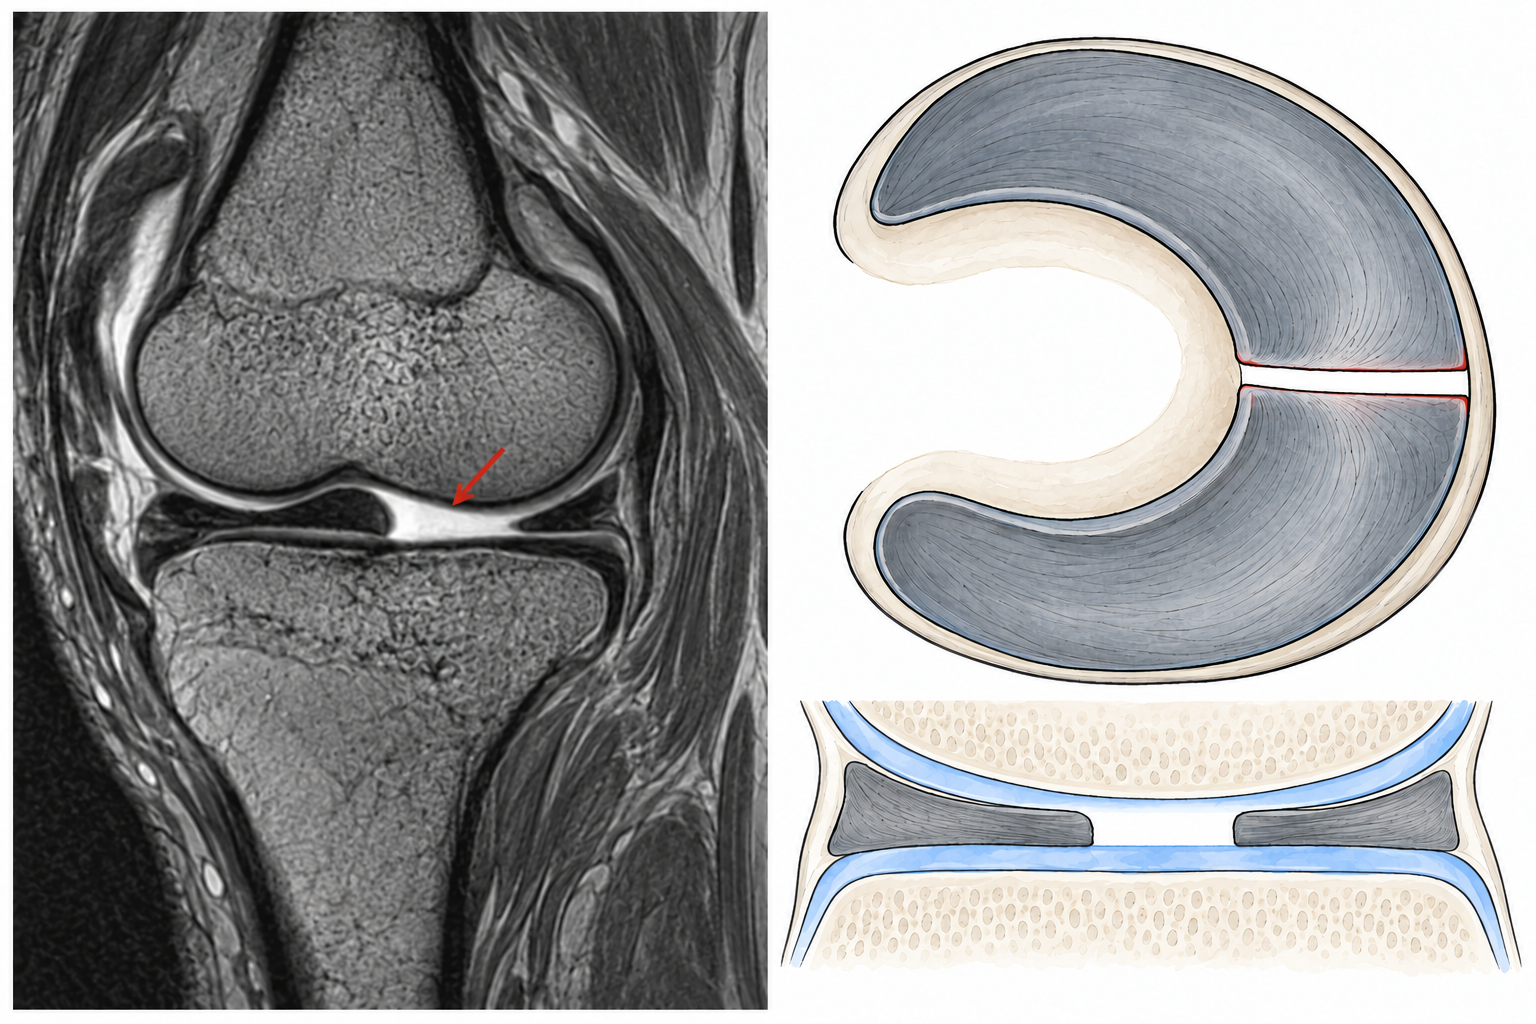
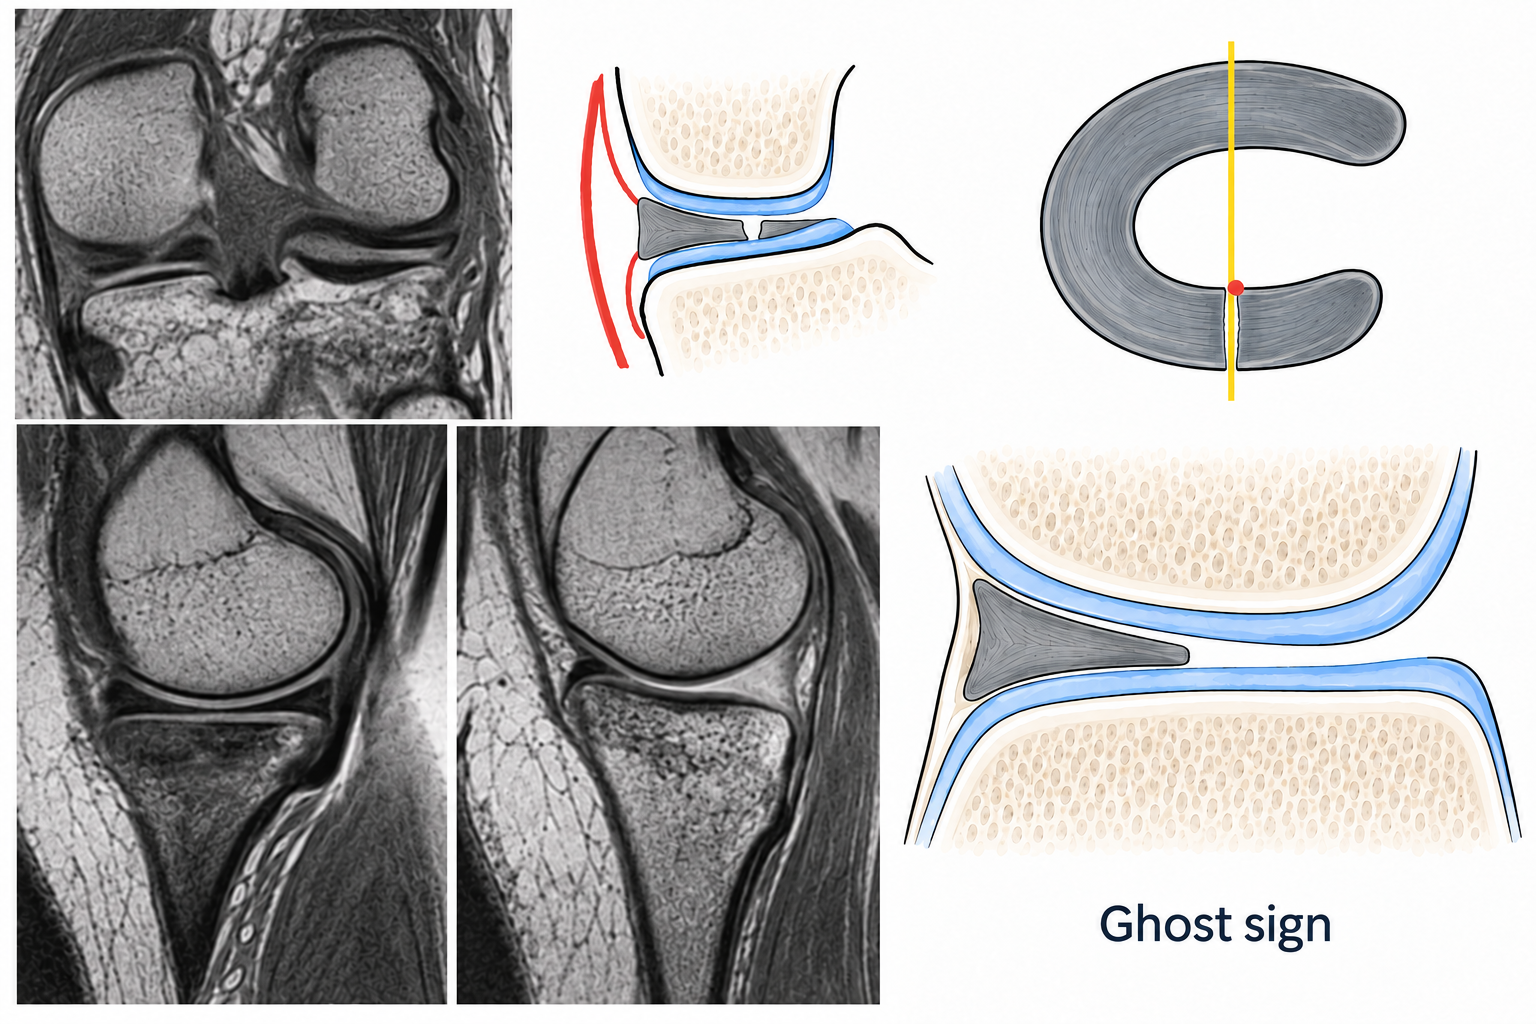
Rework parrot-beak teaching content and meniscus illustrations

diff --git a/app/msk/knie/meniskus/TearTypeExplorer.jsx b/app/msk/knie/meniskus/TearTypeExplorer.jsx
@@ -29,12 +29,12 @@ const items = [
     L(<><p>Ringspannung und Lastverteilung sind erheblich beeinträchtigt.</p><p>Eine Meniskusextrusion kann hinzukommen.</p></>, <><p>Hoop-stress transmission and load distribution are substantially impaired.</p><p>Meniscal extrusion may coexist.</p></>, <><p>انتقال تنش حلقوی و توزیع بار بهشدت مختل میشوند.</p><p>اکستروژن منیسک ممکن است همراه باشد.</p></>),
     null,
   ], [labels[0], L('Ghost sign', 'Ghost sign', 'علامت شبح (Ghost sign)'), labels[2]]),
-  makeItem('flap', L('Parrot-beak-tear (Lappenriss)', 'Parrot-beak tear (flap tear)', 'پارگی لَپی'), L('Teilweise angeheftetes Fragment', 'Partly attached fragment', 'قطعه با اتصال باقیمانده'), [
-    L('Schräger Radiärriss mit spitzem, teilweise angeheftetem Lappen am freien Rand.', 'An oblique radial tear with a pointed, partly attached flap at the free edge.', 'پارگی شعاعی مایل با لَپ نوکتیز و اتصال باقیمانده در لبهٔ آزاد.'),
+  makeItem('flap', L('Parrot-beak-tear (Lappenriss)', 'Parrot-beak tear (flap tear)', 'پارگی لَپی'), L('Gebogener Rissverlauf', 'Curved tear course', 'مسیر خمیدهٔ پارگی'), [
+    L(<><p>Mischform aus einem radiären und einem longitudinalen Rissverlauf.</p><p>Der Riss beginnt meist an der freien Innenkante des Meniskus und geht in einen schrägen oder bogenförmigen longitudinalen Verlauf über.</p><p>Der gebogene Einriss bildet einen spitzen Lappen – ähnlich einem Papageienschnabel.</p></>, <><p>A combination of radial and longitudinal tear components.</p><p>The tear usually starts at the free inner edge of the meniscus and curves into an oblique or arcuate longitudinal course.</p><p>The curved tear creates a pointed flap resembling a parrot's beak.</p></>, <><p>ترکیبی از مسیر پارگی شعاعی و طولی.</p><p>پارگی معمولاً از لبهٔ آزاد داخلی منیسک شروع میشود و سپس به مسیری مایل یا قوسی در امتداد طولی تغییر جهت میدهد.</p><p>این مسیر خمیده یک لَپ نوکتیز، شبیه منقار طوطی، ایجاد میکند.</p></>),
+    L('Auf aufeinanderfolgenden sagittalen Schichten verändert sich der Abstand der Risslinie zur Kapsel aufgrund des gebogenen Verlaufs.', 'On consecutive sagittal slices, the distance between the tear line and the capsule changes because of the curved course.', 'بهدلیل مسیر خمیدهٔ پارگی، فاصلهٔ خط پارگی تا کپسول در برشهای ساژیتال متوالی تغییر میکند.'),
     null,
-    L(<><p>Ein instabiler Lappen kann mechanische Beschwerden verursachen.</p><p>Therapie nach Symptomen, Gewebequalität und Reparabilität.</p></>, <><p>An unstable flap can cause mechanical symptoms.</p><p>Management depends on symptoms, tissue quality and repairability.</p></>, <><p>لَپ ناپایدار میتواند علائم مکانیکی ایجاد کند.</p><p>درمان به علائم، کیفیت بافت و قابلیت ترمیم بستگی دارد.</p></>),
     null,
-  ]),
+  ], [labels[0], L('Wander-Effekt', 'Marching cleft sign', 'اثر جابهجایی شکاف (Marching cleft sign)')]),
   makeItem('bucket', L('Korbhenkelriss (Bucket-handle tear)', 'Bucket-handle tear', 'پارگی دستهسطلی'), L('Dislozierter Längsriss', 'Displaced longitudinal tear', 'پارگی طولی جابهجاشده'), [
     L('Ausgedehnter vertikaler Längsriss mit zentral verlagertem innerem Fragment; dessen Enden bleiben typischerweise angeheftet.', 'An extensive vertical longitudinal tear with a centrally displaced inner fragment, typically attached at its ends.', 'پارگی طولی عمودی وسیع با قطعهٔ داخلی جابهجاشده به مرکز؛ دو انتهای قطعه معمولاً متصل میمانند.'),
     L('Fragment im Interkondylarraum suchen. Doppel-PCL-Zeichen oder fehlendes Bow-tie-Zeichen können die Diagnose unterstützen.', 'Search the intercondylar notch for the fragment. A double-PCL or absent bow-tie sign can support the diagnosis.', 'قطعه را در ناچ بینکندیلی جستوجو کنید؛ Double-PCL یا فقدان Bow-tie میتواند تشخیص را تقویت کند.'),
